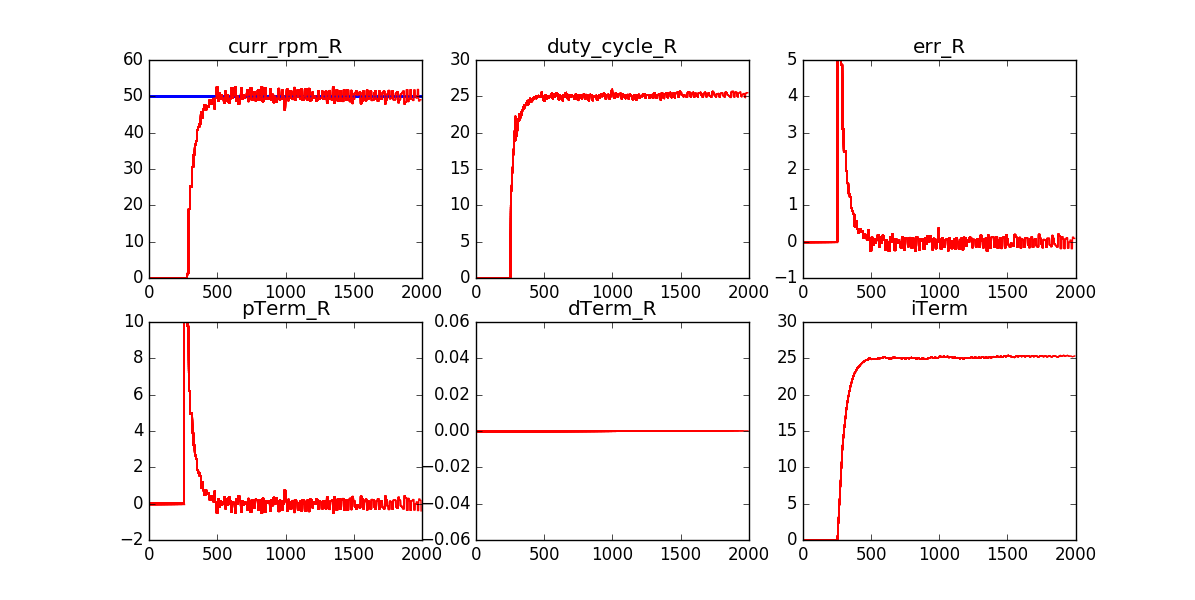
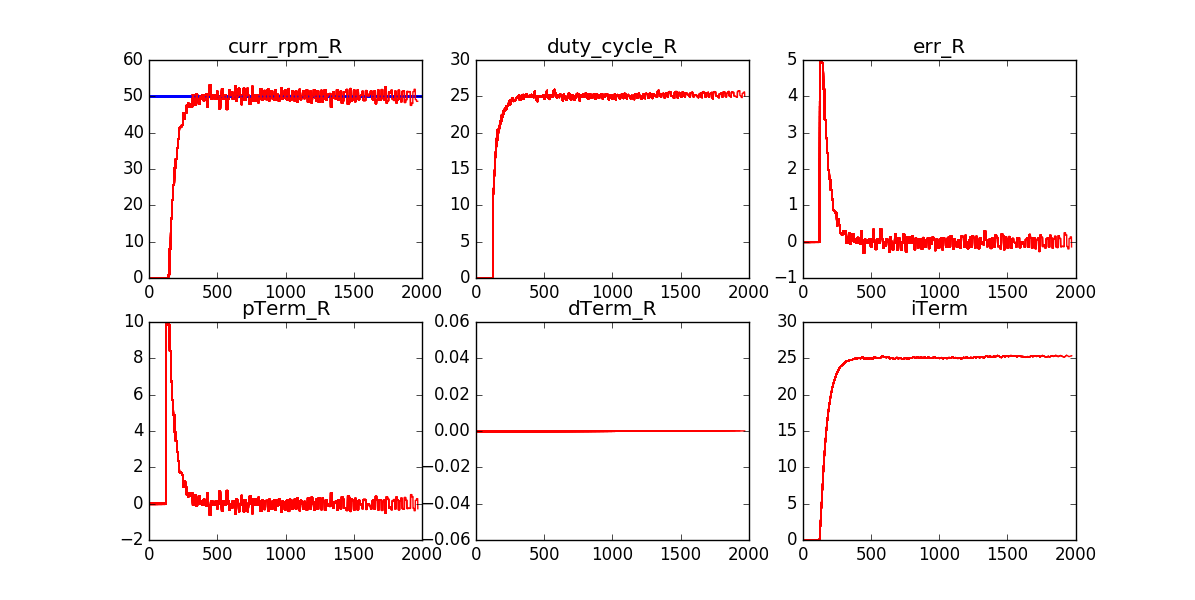
Tuning tested with cumm_err-avg method

diff --git a/src/auto_nav/scripts/rpm_tuning_off_load_live_plot.py b/src/auto_nav/scripts/rpm_tuning_off_load_live_plot.py
@@ -27,9 +27,16 @@ from matplotlib import style
 # Kd = 125
 # Ki = 0.25
 
+#BEST VALUES *******
+# Kp = 2
+# Kd = 0
+# Ki = 0.4
+# pwm_frequency = 200
+
+#Cum_err/count
 Kp = 2
-Kd = 10
-Ki = 0.35
+Kd = 0
+Ki = 0.4
 pwm_frequency = 200
 
 curr_rpm_R = []
@@ -58,10 +65,8 @@ def getKey():
 
 def animate(j):
     global rpm_R, desr_rpm, Kp, Kd, Ki, alpha, i
-    if i not in range(0,2000):
-        print "done"
-        plot()
-        exit()
+    if i not in range(0,5000):
+        end()
     if desr_rpm != 0:
         ax1.axhline(y=desr_rpm, color='b', linestyle='-')
         ax1.plot(curr_rpm_R, color = 'r')
@@ -86,8 +91,7 @@ def animate(j):
     elif key == "j":
         Ki-=0.0005
     elif key == "q":
-        plot()
-        exit()
+        end()
     publish_tuna()
 
 def publish_tuna():
@@ -113,12 +117,17 @@ def pid_callback(pid_response):
     desr_rpm = pid_response.desr_rpm
     i += 1
 
-def plot():
+def end():
+    global rpm_R, desr_rpm, Kp, Kd, Ki, alpha, i
     # title = "/home/swapnil/avitra_ws/src/auto_nav/observations_for_analysis/plots/rpm_tuning/off_load_right_motor/duty_is_pid_term_live/15_Jan_2020/Kp"+str(Kp)+"_Kd"+str(Kd)+"_Ki"+str(Ki)+"_pwm_freq"+str(pwm_frequency)+"_alpha"+str(alpha)+"_iTerm_limit"+str(iTerm_limit)+".png"
     # title = "/home/swapnil/avitra_ws/src/auto_nav/observations_for_analysis/plots/rpm_tuning/off_load_right_motor/duty_is_pid_term/temp.png"
-    title = "/home/swapnil/avitra_ws/src/auto_nav/observations_for_analysis/plots/rpm_tuning/off_load_right_motor/duty_is_pid_term_live/16_Jan_2020/2_0_0.35_samples2000_Kd"+str(Kd)+".png"
-    plt.savefig(title)
+    title = "/home/swapnil/avitra_ws/src/auto_nav/observations_for_analysis/plots/rpm_tuning/off_load_right_motor/duty_is_pid_term_live/16_Jan_2020/cum_err_per_count_samples_5000_Kp"+str(Kp)+"_Kd"+str(Kd)+"_Ki"+str(Ki)+".png"
+    Kp, Kd, Ki = 0, 0, 0
+    publish_tuna()
+    # plt.savefig(title)
     plt.show()
+    print "DONE"
+    exit()
 
 if __name__=="__main__":
     rospy.init_node('rpm_tuning',anonymous=False)
